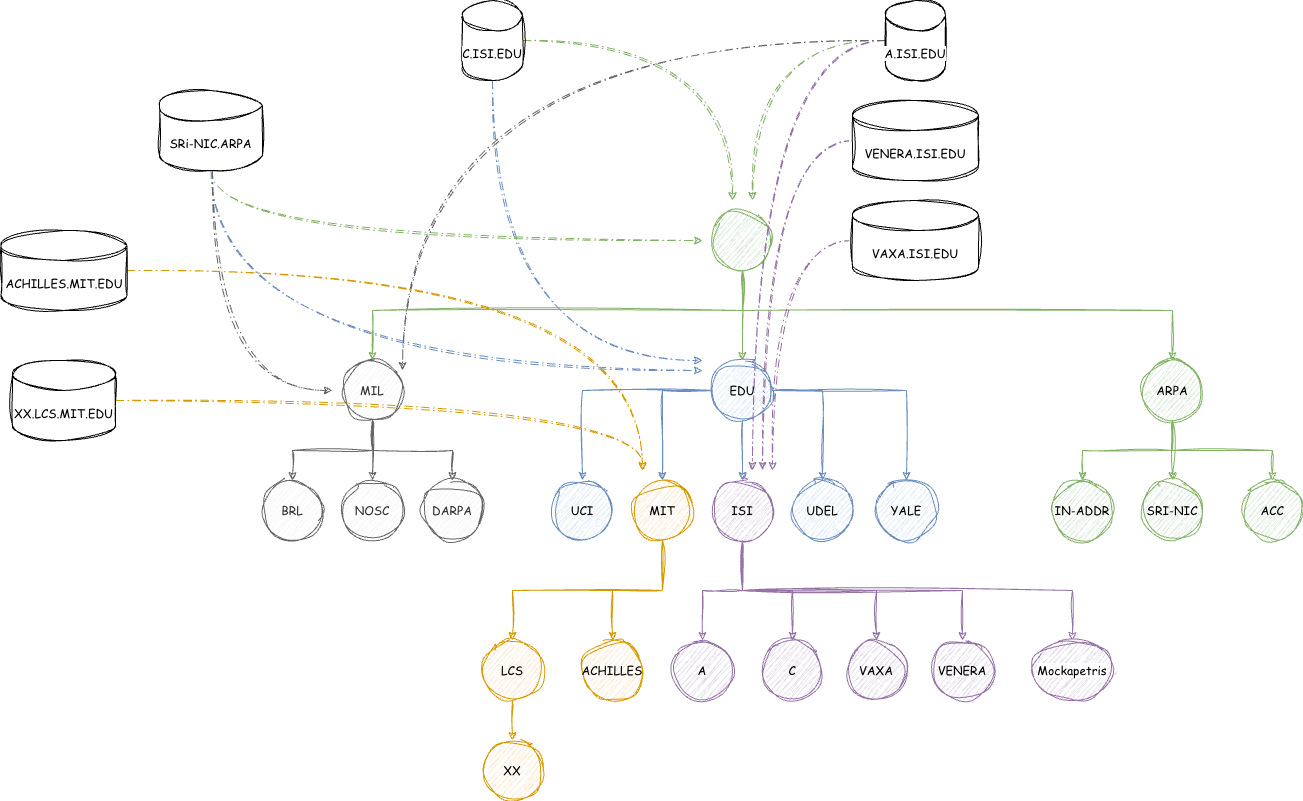
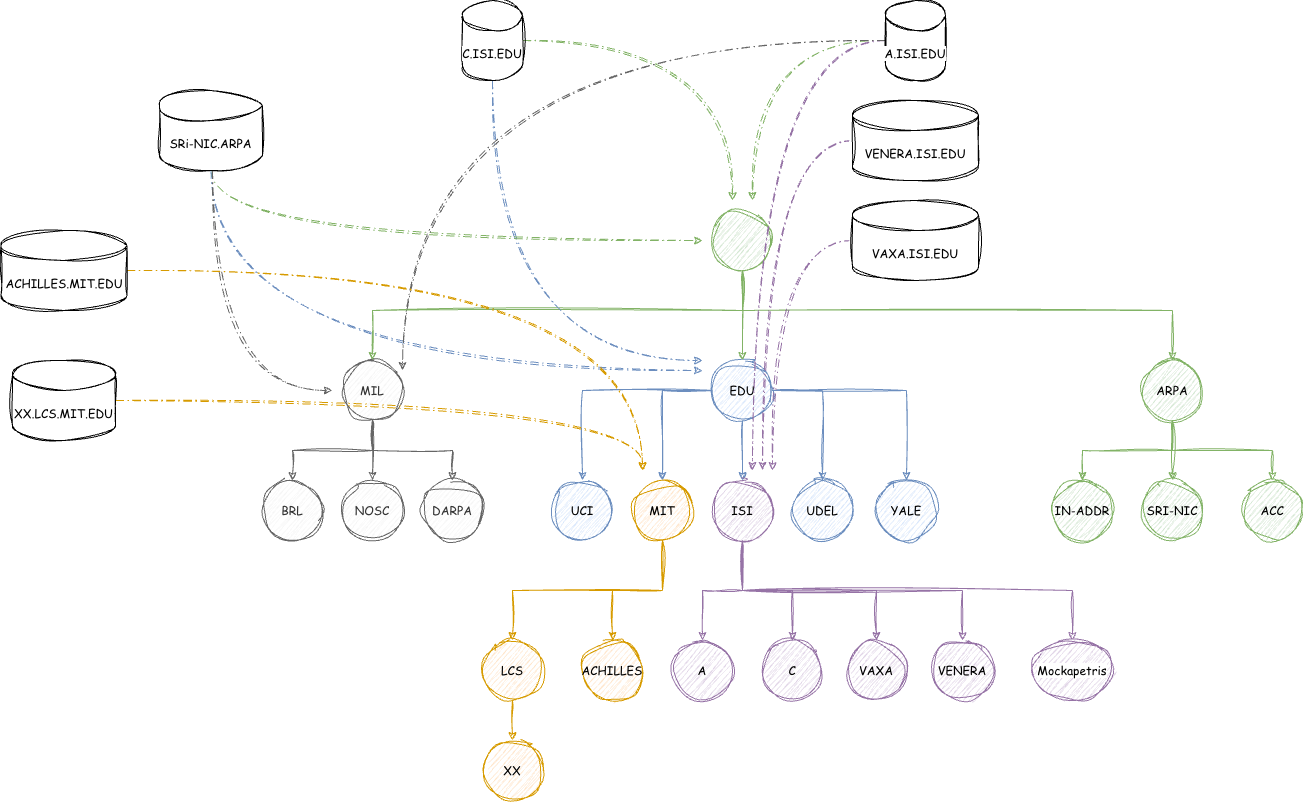
add dns scheme

diff --git a/source/_posts/DNSScheme.md b/source/_posts/DNSScheme.md
@@ -1,0 +1,205 @@
+---
+title: DNS 学习笔记(2) 协议设计
+date: 2026-07-02 18:54:23
+categories:
+- Tech
+tags:
+- golang
+- dns
+- net
+---
+
+
+# DNS 学习笔记(2) 协议设计
+
+本章介绍DNS协议的详细设计.
+
+
+
+## Resource Record
+
+Resource Record是DNS协议中负责传输数据的数据结构. 其传输结构如下图所示:
+
+![](resource_record.png)
+
+
+
+下面对RR的各个部分进行介绍.
+
+
+
+### TYPE枚举
+
+TYPE表示RR的数据类型, 其协议枚举如下表所示:
+
+| TYPE  | 值(Dec) | 语义                                     |
+| ----- | ------- | ---------------------------------------- |
+| A     | 1       | IPv4地址                                 |
+| NS    | 2       | Authoritative Name Server                |
+| CNAME | 5       | 别名                                     |
+| SOA   | 6       | 标记一个权威域(zone of authority)的开始  |
+| WKS   | 11      | 用于描述共识服务(well known service)的RR |
+| PTR   | 12      | 指向其他域名                             |
+| HINFO | 13      | 主机信息, 包含CPU和OS信息                |
+| MX    | 15      | 邮件交换域名                             |
+| TXT   | 16      | 纯文本数据                               |
+
+
+
+### CLASS枚举
+
+CLASS表示RR的网络类型, 其协议枚举如下表所示, 在现代互联网场景下固定为1.
+
+| TYPE | 值(Dec) | 语义     |
+| ---- | ------- | -------- |
+| IN   | 1       | 因特网   |
+| CH   | 3       | 混沌网络 |
+
+
+
+### RDATA
+
+RDATA是RR中的有效负载, 承载了RR的具体数据. 下面分别对不同类型的RDATA进行记录.
+
+
+
+#### CNAME
+
+CNAME类型的RR仅包含一个别名字符串, 其结构如下图所示:
+
+![](cname.png)
+
+
+
+#### HINFO
+
+HINFO类型的RR包含CPU和OS两个部分的描述, 其结构如下图所示:
+
+![](hinfo.png)
+
+
+
+#### MX
+
+MX的RDATA由两个部分组成:
+
+1. 定长16b的偏好系数. 系数越小表示指定的邮件交换主机越好(preferred).
+2. 变长的字符串, 指向指定的邮件交换主机.
+
+其结构如下图所示:
+
+![](mx.png)
+
+
+
+#### NS
+
+NS类型包含一个字符串, 指向查询域名的Authoritative Name Server, 其结构如下图所示:
+
+![](ns.png)
+
+
+
+#### PTR
+
+PTR的RDATA包含一个字符串, 指向另一个域名, 通常被用于逆向域名解析(IP -> Domain), 其结构如下图所示:
+
+![](ptr.png)
+
+
+
+#### SOA
+
+SOA的RDATA包含一组和Name Server维护相关的数据, 用户基本不感知, 其结构如下图所示:
+
+![](soa.png)
+
+
+
+#### TXT
+
+TXT存储了一些描述性文本, 其结构如下图所示:
+
+![](txt.png)
+
+
+
+#### A
+
+A类型专指互联网中的IPv4地址记录, 其结构如下图所示:
+
+![](a.png)
+
+
+
+#### WKS
+
+WKS记录用于描述一个特定的地址对某些特定服务的支持. 其结构如下图所示:
+
+![](wks.png)
+
+PROTOCOL是协议枚举, \<BIT MAP\>是对应的端口号, 比如PROTOCAL=6表示此地址支持TCP协议, 同时\<BIT MAP\>的第26个位被置为1, 表示25号端口可以支持TCP协议, 而25号被专门用于SMTP服务, 因此这条WKS的意思是: 这个地址支持SMTP服务.
+
+PROTOCOL和\<BIT MAP\>的可取枚举参考[RFC 1010](https://www.rfc-editor.org/info/rfc1010/). 
+
+
+
+### IN-ADDR.ARPA.
+
+DNS协议中有一个特殊的域名IN-ARRD.ARPA. 用于查询从IP到域名的逆向映射.
+
+对IP为a.b.c.d, 域名为EXAMPLE.XX的主机而言, 其逆向映射的RR如下所示:
+
+``` 
+d.c.b.a.IN-ARRD.ARPA.		PTR		EXAMPLE.XX.
+```
+
+
+
+## DNS Message
+
+DNS Message是DNS协议在网络中的完整数据包. Resolver和Name Server发生通信时, DNS请求和DNS响应均使用此数据结构, 其由5个部分组成: Header, Question, Answer, Authority, Additional. 其中Answer是一批Resource Record的集合, 表示本次DNS请求的回复数据.
+
+接下来对其中主要的3个部分: Header, Question, Answer进行介绍.
+
+
+
+### Header
+
+Header固定长度12Byte, 其结构如下图所示:
+
+![](header.png)
+
+
+
+### Question
+
+Question用于携带DNS查询的目标, 其结构如下图所示:
+
+![](question.png)
+
+图中展示了域名 **www.theo1893.com** 被编码到QNAME字段后的字节流.
+
+
+
+
+
+### Answer (Resource Record)
+
+RR表示实际获取的数据, 其结构如下图所示:
+
+![](rr_scheme.png)
+
+
+
+
+
+## 消息压缩
+
+为了降低DNS的网络负载, DNS协议在设计上引入了压缩机制. 如果一个域名字符串在一条DNS消息中多次出现(事实上由于DNS域名的后缀树结构, 重复后缀非常常见), 则仅在第一次出现时进行完整的记录, 后续出现均以**引用**的形式进行处理.
+
+具体而言, 每个引用固定长度2B, 最高的2b固定为11, 剩下的14b用于表示引用字符串在DNS消息中的起始位置.
+
+下图展示了一条DNS消息中出现的域名引用, 其中总共涉及3个域名: F.ISI.ARPA. , FOO.ARPA. , ARPA.
+
+![](message_compress.png)
